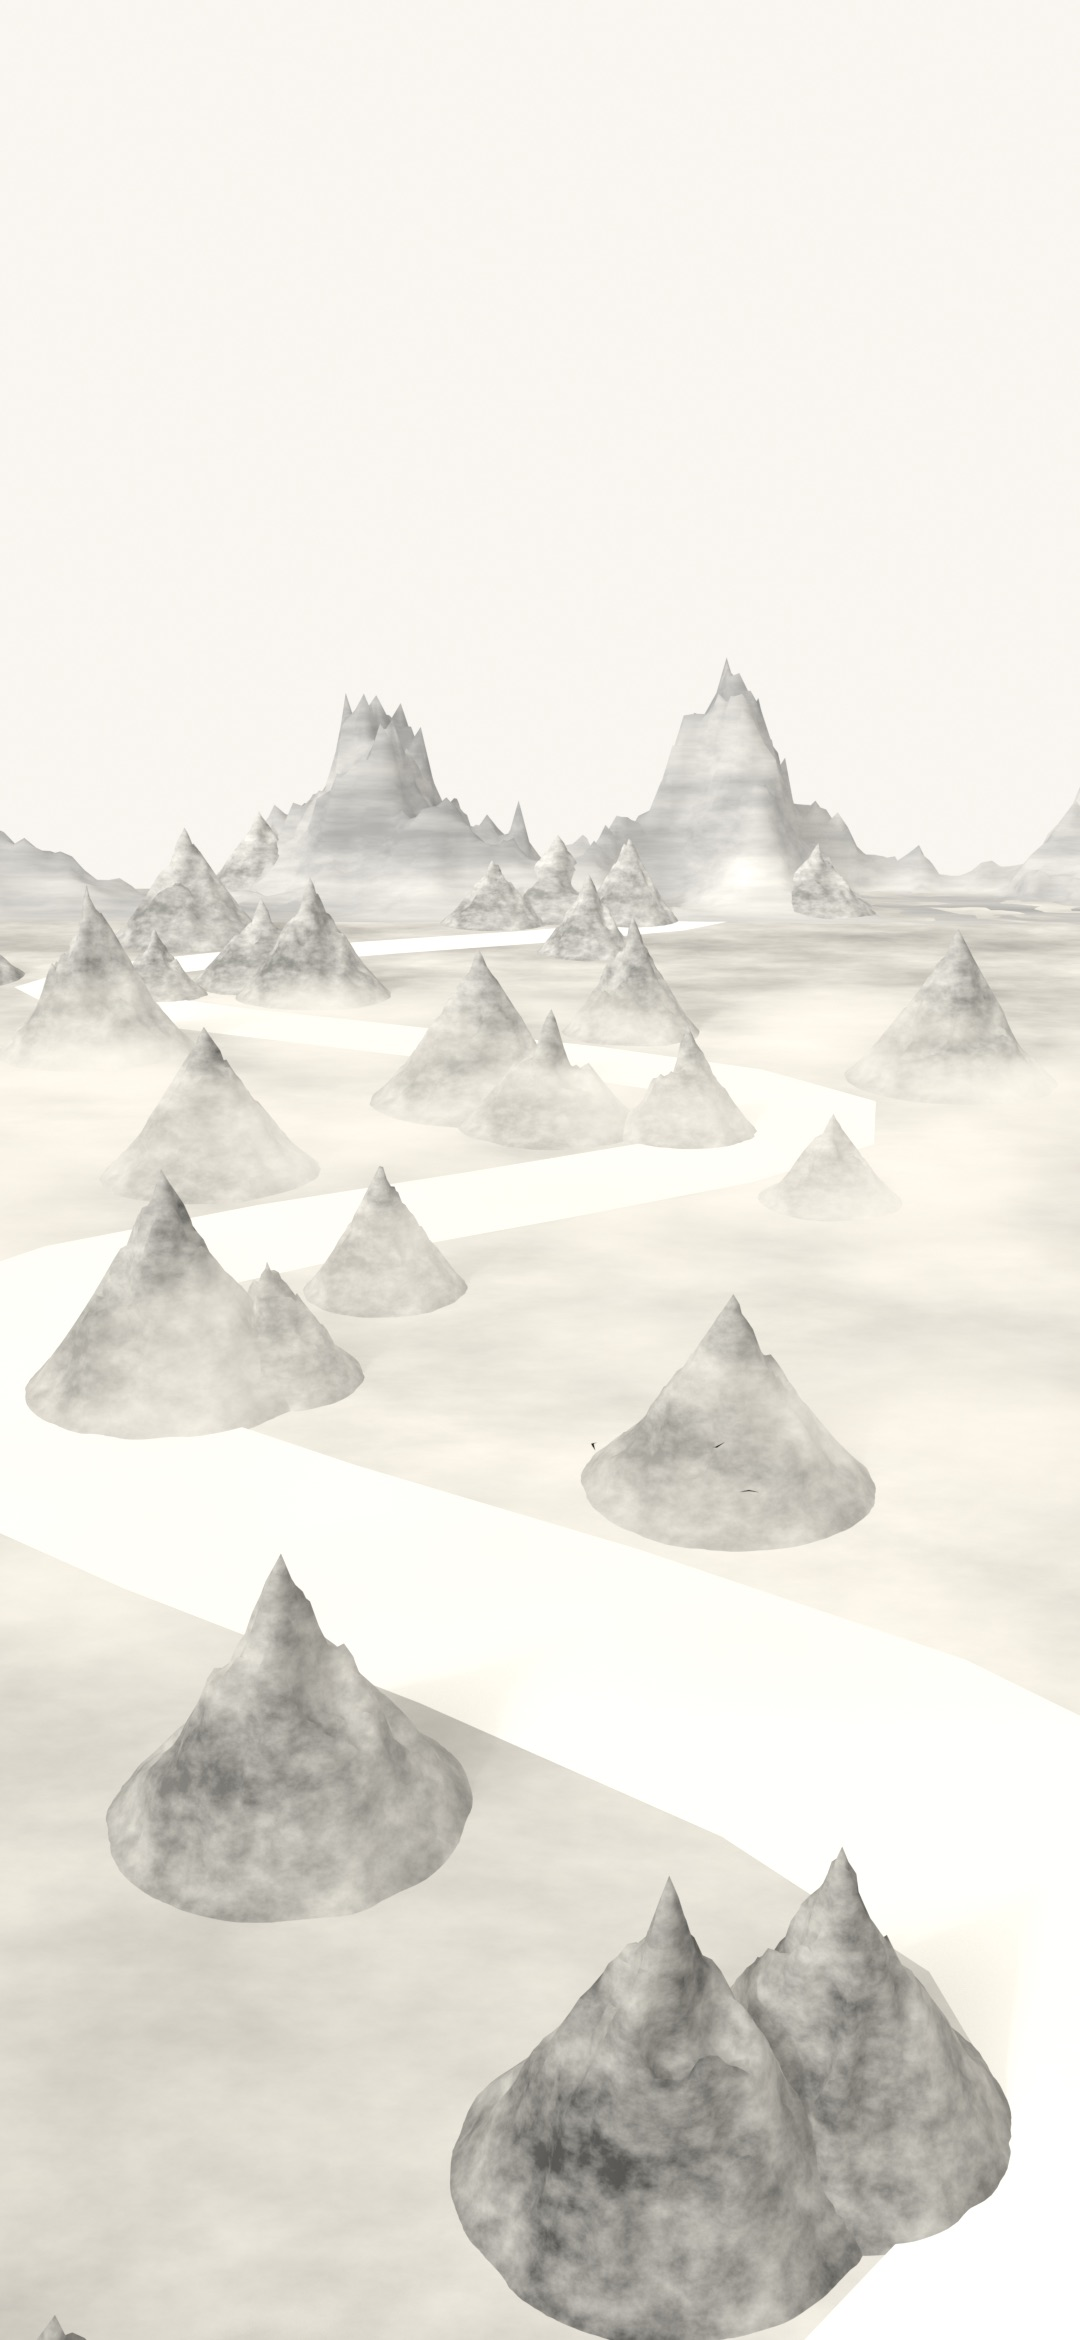
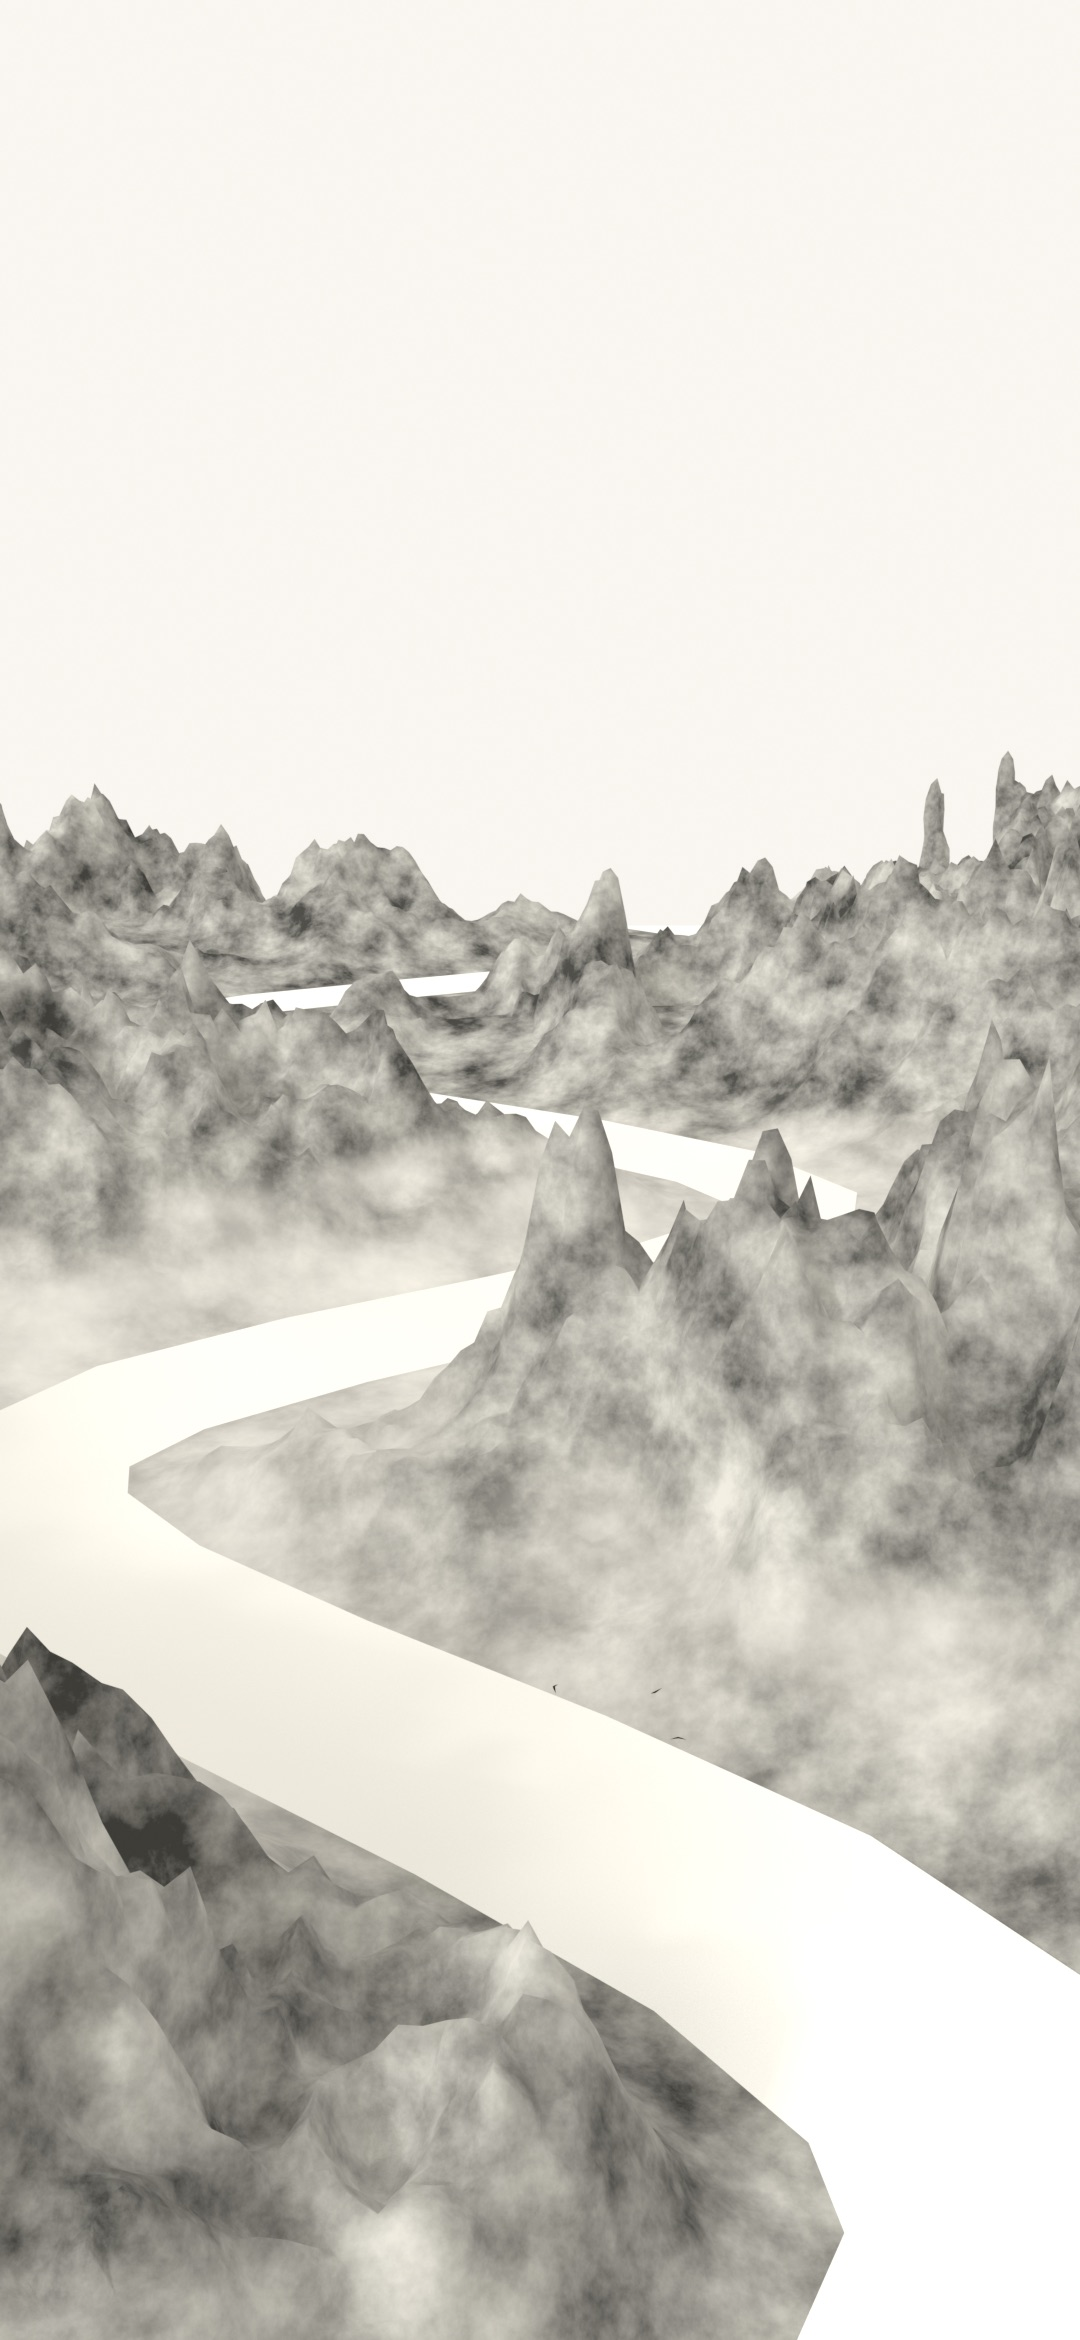
穷：两岸改成一整片连绵山地，江从中间切出峡谷
原来是一座座锥形孤山沿江排开，显得呆板。改成一块地形高度场，按到江的距离抬升、脊状噪声起伏，
山脊相连，远处没入雾里；山石纹理按实际尺寸取坐标，不再被拉成横条。

diff --git a/scripts/blender/words.py b/scripts/blender/words.py
@@ -7,7 +7,7 @@ import math
 
 import bmesh
 import bpy
-from mathutils import Vector
+from mathutils import Vector, noise
 
 import ink
 import props
@@ -532,37 +532,69 @@ def ju(scene):
     return {"main": ((0.3, 9, 1.8), (0.3, 100, 4.5), 30)}
 
 
+def valley(pts, width, mat, size=(900, 1100), res=(300, 330), seed=4):
+    """一整片山地，江从中间切出一道谷：离江越远山越高，山脊连绵，不是一座座孤山。
+
+    pts 是江的折线，width(u) 是 u（0~1，沿江的位置）处的江宽。
+    """
+    from mathutils import kdtree
+    dense = []
+    for (x0, y0), (x1, y1) in zip(pts, pts[1:]):
+        n = max(int(math.hypot(x1 - x0, y1 - y0) / 3), 1)
+        dense += [((x0 + (x1 - x0) * i / n), (y0 + (y1 - y0) * i / n)) for i in range(n)]
+    tree = kdtree.KDTree(len(dense))
+    for i, (x, y) in enumerate(dense):
+        tree.insert((x, y, 0), i)
+    tree.balance()
+    bm = bmesh.new()
+    nx, ny = res
+    y0, y1 = min(p[1] for p in pts) - 40, max(p[1] for p in pts)
+    rows = []
+    for j in range(ny + 1):
+        row = []
+        for i in range(nx + 1):
+            x = (i / nx - 0.5) * size[0]
+            y = y0 + (y1 - y0) * j / ny
+            _, k, d = tree.find((x, y, 0))
+            u = k / len(dense)
+            w = width(u) / 2
+            rise = min(max((d - w * 0.9) / (70 + 90 * u), 0), 1)  # 出了江岸几十米到上百米升到山的高度
+            rise = rise * rise * (3 - 2 * rise)
+            n = noise.ridged_multi_fractal(Vector((x / 90 + seed, y / 90, seed)), 0.9, 2.1, 6, 0.9, 2.2, noise_basis="PERLIN_ORIGINAL")
+            h = (20 + 80 * max(n - 0.35, 0) ** 1.3) * (1 - 0.3 * u)
+            row.append(bm.verts.new((x, y, h * rise - 1.0)))
+        rows.append(row)
+    for j in range(ny):
+        for i in range(nx):
+            bm.faces.new((rows[j][i], rows[j][i + 1], rows[j + 1][i + 1], rows[j + 1][i]))
+    mesh = bpy.data.meshes.new("valley")
+    bm.to_mesh(mesh)
+    obj = bpy.data.objects.new("valley", mesh)
+    bpy.context.collection.objects.link(obj)
+    mesh.materials.append(mat)
+    for f in mesh.polygons:
+        f.use_smooth = True
+    return obj
+
+
 # ---- 穷：尽头。哀吾生之须臾，羡长江之无穷（《赤壁赋》） ----
 def qiong(scene):
     """高处望下去，长江在两岸群山间蜿蜒，一直流到天边看不见尽头；江上一叶小舟。"""
-    landscape(far=(1400, 200, 900, 120, 160, 3), mid=None, near=None, mist=False)
-    ink.valley_mist(y=500, depth=900, height=26, density=0.012)
+    landscape(far=(1400, 200, 1100, 110, 160, 3), mid=None, near=None, mist=False)
+    ink.valley_mist(y=650, depth=1000, height=45, density=0.009)
     black = ink.flat("ink", ink.INK)
     river = ink.flat("river", (0.86, 0.85, 0.81, 1))
     pts = [(math.sin(k * 0.5) * 70 * (1 + k * 0.04) - k * 3, k * 30 - 20) for k in range(34)]
     width = lambda u: 60 - u * 35
     ink.ribbon("river", pts, width, 0.4, river)
-    ink.ground(size=(1600, 1100), y=480)
-    # 两岸的山贴着江边一座挨一座排下去，江面是纸色留白。
-    rnd = __import__("random").Random(6)
-    for i in range(0, len(pts) - 1, 2):
-        (x0, y0), (x1, y1) = pts[i], pts[i + 1]
-        d = Vector((x1 - x0, y1 - y0, 0)).normalized()
-        n = Vector((-d.y, d.x, 0))
-        w = width(i / (len(pts) - 1)) / 2
-        for side in (-1, 1):
-            r = rnd.uniform(15, 28) * (1 + i / 60)
-            c = Vector((x0, y0, 0)) + n * side * (w + r * 1.1)
-            shade = 0.05 + 0.25 * i / len(pts)  # 远山淡
-            mat = ink.rock(f"bank{i}{side}", (shade, shade, shade * 0.95, 1), (0.45 + shade, 0.44 + shade, 0.41 + shade, 1), 5)
-            ink.cliff(f"bank{i}{side}", (c.x, c.y), r, rnd.uniform(0.9, 1.5) * r, i * 2 + side, mat, res=60, rough=0.35, peaked=True)
+    valley(pts, width, ink.rock("gorge", (0.05, 0.05, 0.045, 1), (0.55, 0.54, 0.5, 1), 0, per_meter=0.04))
     ink.mist_band((0, 300), (900, 400), 18, 34, density=0.05, drift=20)
     hull = boat(4, 1.2, black)
     hull.location = (pts[3][0] + 6, pts[3][1], 0.45)
     hull.rotation_euler = (0, 0, math.radians(80))
     ink.bob(hull, 0.05)
     ink.birds((0, 120, 0), 20, 40, 3, 1.2, black)
-    return {"main": ((0, -90, 140), (-15, 600, -60), 30)}
+    return {"main": ((10, -120, 210), (-20, 600, -40), 30)}
 
 
 # ---- 阳：山的南面。泰山之阳，汶水西流（《登泰山记》） ----

diff --git a/scripts/blender/ink.py b/scripts/blender/ink.py
@@ -34,12 +34,18 @@ def flat(name, color, emission=0.0):
     return m
 
 
-def rock(name, dark, light, scale):
-    """山石：噪声在浓墨和淡墨之间过渡，像皴法。"""
+def rock(name, dark, light, scale, per_meter=None):
+    """山石：噪声在浓墨和淡墨之间过渡，像皴法。
+
+    默认按物体自身的包围盒取纹理坐标；很扁很大的地形会被拉成横条，这时给 per_meter（每米几个噪声周期）按实际尺寸取。
+    """
     m = flat(name, light)
     nt = m.node_tree
     tex = nt.nodes.new("ShaderNodeTexNoise")
-    tex.inputs["Scale"].default_value = scale
+    tex.inputs["Scale"].default_value = scale if per_meter is None else per_meter
+    if per_meter is not None:
+        coord = nt.nodes.new("ShaderNodeTexCoord")
+        nt.links.new(coord.outputs["Object"], tex.inputs["Vector"])
     tex.inputs["Detail"].default_value = 12
     tex.inputs["Roughness"].default_value = 0.65
     ramp = nt.nodes.new("ShaderNodeValToRGB")
